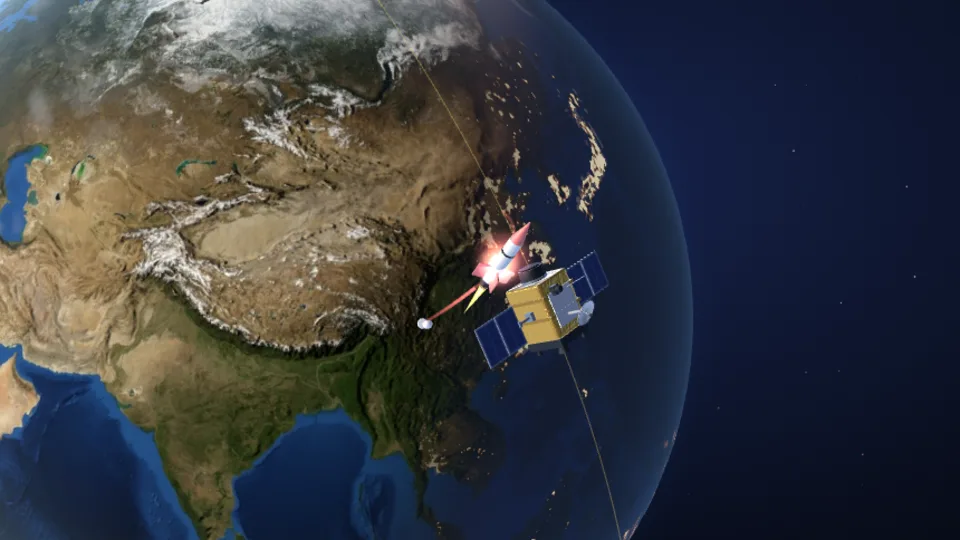
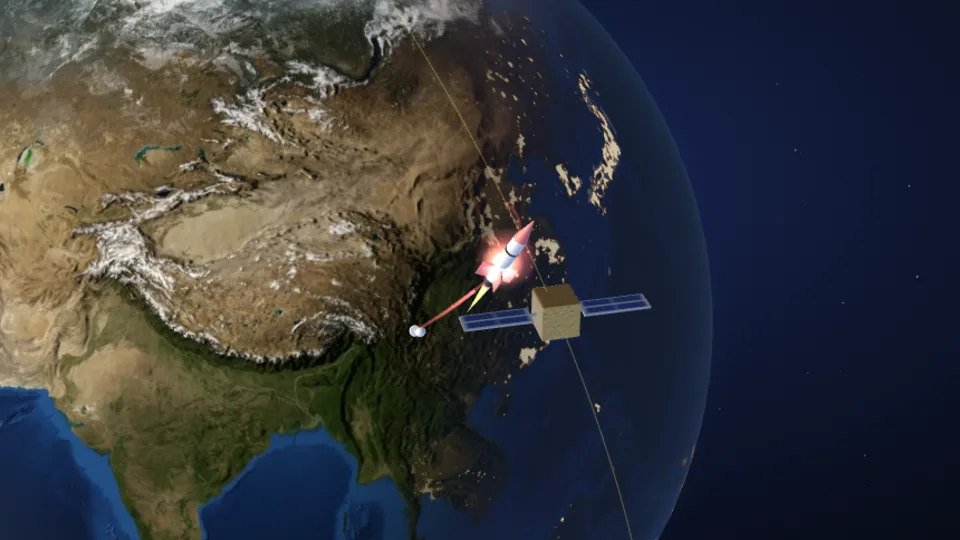
Polish scene framing and evidence labels; expand mobile and copy checks

diff --git a/counterspace/src/scenes/sim-space.js b/counterspace/src/scenes/sim-space.js
@@ -383,19 +383,14 @@ export function buildSpaceActor(a, { cfg, items, rnd, tgt, setFocus }) {
         return n;
       },
     });
-    // The count is stated against the nominal sample (a.count) at every width: a phone draws fewer dots, but the share offline is the same number.
-    const dark = (t) => {
-      let d = 0;
-      for (const o of canon) if (t > o) d++;
-      return Math.round((d / canon.length) * a.count);
-    };
+    // Dots explain the spread of the outage; their drawn number is not an observed count.
     items.push({
       kind: 'status',
       text: (t, still, phone) => {
         if (phone) {
           if (t < a.pulse0) return 'Before the attack: modems online';
           if (t < a.t0) return 'Attackers reach the ground network';
-          return t < a.t1 ? `Malware wipes modems · ${dark(t)}/${a.count} offline` : 'Modems offline · satellite kept working';
+          return t < a.t1 ? 'Malware wipes modems; they go offline' : 'Modems offline · satellite kept working';
         }
         if (a.compactStatus) {
           // opt-in: shorter desktop status lines
@@ -407,7 +402,7 @@ export function buildSpaceActor(a, { cfg, items, rnd, tgt, setFocus }) {
                 : t < a.t1
                   ? 'Modems wiped (SWF: ~45 min): red = offline'
                   : 'Modems offline (red) · satellite kept working';
-          return t >= a.t0 ? `${c} · ${dark(t)} of ${a.count} simulated` : c;
+          return c;
         }
         const tx =
           t < a.pulse0
@@ -417,7 +412,7 @@ export function buildSpaceActor(a, { cfg, items, rnd, tgt, setFocus }) {
               : t < a.t1
                 ? 'Malware overwrites modems (SWF: ~45 min): red = offline'
                 : 'Modems offline (red) · the satellite kept working';
-        return t >= a.t0 ? `${tx} · ${dark(t)} of ${a.count} simulated terminals offline` : tx;
+        return tx;
       },
     });
   }

diff --git a/counterspace/src/scenes/configs/spaceplanes.js b/counterspace/src/scenes/configs/spaceplanes.js
@@ -272,7 +272,7 @@ export const SPACEPLANES = {
     [0.3, 'OTV-7 (launched 28 Dec. 2023): an elongated orbit, 323 to 38,838 km up, tilt 59.1° (Feb. 2024)', 'OTV-7: 323 to 38,838 km up, tilt 59.1°'],
     [0.38, 'SWF: may have tested a new sensor or payload; what and why are unclear', 'SWF: purpose and payload unclear'],
     [0.46, 'Oct. 2024: uses air drag to lower its orbit; landed at Vandenberg 7 Mar. 2025 (434 days)', 'Landed 7 Mar. 2025 after 434 days'],
-    [0.51, 'OTV-8 launched 21 Aug. 2025; SWF says it was still in orbit in Feb. 2026', 'OTV-8 launched 21 Aug. 2025'],
+    [0.51, 'Next flight: OTV-8 launched 21 Aug. 2025; SWF says it was still in orbit in Feb. 2026', 'Next: OTV-8 launched 21 Aug. 2025'],
     [0.54, 'China’s CSSHQ: flights of 2, 276 and 268 days; a fourth launched 6 Feb. 2026 (SWF)', 'CSSHQ: flights of 2, 276, 268 days'],
     [0.56, 'Flight 1 (launched 4 Sept. 2020) spent 2 days in orbit', 'CSSHQ flight 1: 2 days in orbit'],
     [0.575, 'Flight 2 (2022–23): orbit raised to about 597–607 km; Object J cataloged, apparently released', 'Flight 2: Object J apparently released'],

diff --git a/counterspace/src/scenes/gl-models.js b/counterspace/src/scenes/gl-models.js
@@ -203,7 +203,11 @@ export const modelMethods = {
     };
     if (variant === 'solwind') {
       // The wheel beneath a single upright sail is the defining outline in the photograph.
-      K.cyl(metal, 0.017, 0.017, 0.008, 0, -0.014, 0, 0, 0, 0, 32);
+      K.cyl(this._foil(0x9faabd), 0.017, 0.017, 0.008, 0, -0.014, 0, 0, 0, 0, 32);
+      for (let k = 0; k < 12; k++) {
+        const angle = (k * PI) / 6;
+        K.box(metal, 0.0004, 0.0075, 0.0004, Math.sin(angle) * 0.017, -0.014, Math.cos(angle) * 0.017, 0, angle, 0);
+      }
       K.cyl(foil, 0.016, 0.016, 0.0014, 0, -0.0185, 0, 0, 0, 0, 32);
       K.ring(metal, 0.017, 0.0005, 0, -0.0097, 0, PI / 2);
       K.box(foil, 0.008, 0.008, 0.007, 0, -0.006, 0.004);
@@ -217,6 +221,7 @@ export const modelMethods = {
       array(0.016, 0.006, 0.014, 0, 0, -PI / 2);
     }
     const g = K.build();
+    if (variant === 'solwind') g.rotation.y = -Math.PI * 0.45; // an illustrative three-quarter attitude keeps the sail visible
     Object.assign(g.userData, { span: variant === 'solwind' ? 0.044 : 0.046, minPx: 15, maxPx: 50 });
     return g;
   },

diff --git a/counterspace/src/scenes/configs/shakti.js b/counterspace/src/scenes/configs/shakti.js
@@ -4,6 +4,7 @@ import { IS_PHONE } from '../core.js';
 
 export const SHAKTI = {
   id: 'shakti',
+  noSimCount: true, // Only sourced counts belong in captions; particle decay is illustrative.
   date: '2019-03-27',
   title: 'Mission Shakti: India destroys a satellite (2019)',
   shells: ['LEO'],
@@ -79,12 +80,12 @@ export const SHAKTI = {
       palette: { hot: [1, 0.98, 0.82], mid: [1, 0.88, 0.5], cool: [1, 0.8, 0.42] }, // warm fragments with short trails; the dark halo separates them from the amber city lights
       darkHalo: 0.92, // a dark disc behind every fragment lifts it off the lit land
       hard: true, // crisp gold-white fragments with a bright centre: not another soft amber town light
-      size: 0.1,
-      minPx: 4,
-      maxPx: 11,
-      additive: true,
+      size: 0.065,
+      minPx: 2.5,
+      maxPx: 6,
+      additive: false,
       trail: { n: 5, dt: 0.012, k: 0.6 },
-      lateGlow: true,
+      lateGlow: false,
     },
   ],
   still: 0.43,

diff --git a/counterspace/src/styles/page.css b/counterspace/src/styles/page.css
@@ -294,6 +294,7 @@ header.top::before{content:"";position:absolute;inset:0 0 auto 0;height:min(100%
 .first-look-dates time { display: block; color: var(--muted); font-size: 14px; }
 .first-look-dates strong { display: block; margin-top: 6px; font-weight: 500; }
 .first-look-copy { max-width: 65ch; min-height: 210px; }
+.first-look-copy p { font-family: var(--serif); font-size: 19px; line-height: 1.55; }
 .first-look-copy h3 { margin: 22px 0 12px; }
 .first-look-actions { display: flex; flex-wrap: wrap; gap: 10px; }
 .cap-phone { display: none; }
@@ -316,3 +317,4 @@ header.top::before{content:"";position:absolute;inset:0 0 auto 0;height:min(100%
   #chartB:not(.show-cap-history) #svgB, #chartB:not(.show-cap-history) .cap-history-hint { display: none; }
   #chartB #tkB, #chartB #noteB { display: none; }
 }
+.first-look-actions .btn { white-space: normal; max-width: 100%; min-width: 0; text-align: center; }

diff --git a/counterspace/src/scenes/configs/solwind.js b/counterspace/src/scenes/configs/solwind.js
@@ -4,6 +4,7 @@ import { IS_PHONE } from '../core.js';
 
 export const SOLWIND = {
   id: 'solwind',
+  noSimCount: true, // Only sourced counts belong in captions; particle decay is illustrative.
   fitPct: 0.99,
   date: '1985-09-13',
   title: 'Solwind: a US missile destroys a satellite (1985)',
@@ -34,6 +35,7 @@ export const SOLWIND = {
   latePct: 0.85,
   camGlide: true,
   burstPadFrom: 0.4,
+  fitFillKeys: IS_PHONE ? [0.68, 0.7, 0.85, 0.9, 0.9, 0.9] : undefined, // room for the wheel and sail above the caption during the climb
   earlyKey: true, // the camera is already tight on the F-15 and the satellite during the climb and the release
   fitTilt: 40, // the view is turned toward the side, so the debris cloud shows against space, not half hidden behind the limb
   lookK: IS_PHONE ? 0.97 : 0.84, // desktop: the Earth sits nearer the middle of the frame, not against its left edge

diff --git a/counterspace/src/scenes/configs/gnss.js b/counterspace/src/scenes/configs/gnss.js
@@ -133,7 +133,7 @@ export const GNSS = {
     { name: 'Europe and GPS orbits', short: 'Europe and GPS', at: [42, -8, 5.0], look: [40, 10, 0.5], phone: { at: [42, -8, 5.6] }, ref: false, hide: IS_PHONE ? ['Ground jammer', 'Jammer effect', 'Airliner 1'] : ['Ground jammer', 'Jammer effect', 'GPS signal'] },
   ],
   status: [
-    [0, 'Both airliners have GNSS (green); the jammer zone is red', 'Airliners have GNSS (green); zone is red', 'Both airliners have GNSS (green); zone is red'],
+    [0, 'Outside the red jammer zone, aircraft receive GPS signals (green)', 'Green: GPS received; red: signal lost', 'Green: GPS received; red: signal lost'],
     [0.3, 'Inside the zone GNSS is lost (red); outside it, OK (green). Satellites unaffected', 'Inside the zone GNSS is lost (red)', 'Zone: GNSS lost (red). Outside: fine. Satellites unaffected'],
   ],
 };

diff --git a/counterspace/src/scenes/configs/burnt-frost.js b/counterspace/src/scenes/configs/burnt-frost.js
@@ -4,6 +4,7 @@ import { IS_PHONE } from '../core.js';
 
 export const BURNT_FROST = {
   id: 'burnt-frost',
+  noSimCount: true, // Only sourced counts belong in captions; particle decay is illustrative.
   date: '2008-02-20',
   title: 'Burnt Frost: the US destroys a failing satellite (2008)',
   shells: ['LEO'],
@@ -100,9 +101,9 @@ export const BURNT_FROST = {
       color: '#ffb066',
       palette: { hot: [1, 0.86, 0.55], mid: [1, 0.6, 0.25], cool: [1, 0.5, 0.22] },
       hard: true,
-      size: 0.085,
+      size: 0.06,
       minPx: 2.5,
-      maxPx: 9,
+      maxPx: 6,
       additive: false,
       lateGlow: true,
     }, // warm orange fragments, uneven in size and spread: no lattice, separate from the blue ocean

diff --git a/counterspace/src/scenes/configs/viasat.js b/counterspace/src/scenes/configs/viasat.js
@@ -100,7 +100,7 @@ export const VIASAT = {
   focus: [33, 12],
   shellLabels: { GEO: null },
   offFrom: { 'Ground network': 0.32 }, // before this the placer's own slot above the hub is clear
-  liveOff: { 'Ground network': [40, 72] }, // desktop: the label sits in the Atlantic to the west, off the modem field
+  liveOff: { 'Ground network': [-170, -50] }, // desktop: the label sits in the Atlantic to the west, off the modem field
   liveShort: ['Ground terminals', 'Ground management'], // the full text puts a corner of the label on the Earth at 900 px on the wide camera
   staticZoom: 1.5,
   stillCam: { at: [10, 12, 3.9], look: [24, 13, 0.5], hideShell: true },

diff --git a/counterspace/src/scenes/configs/dn2.js b/counterspace/src/scenes/configs/dn2.js
@@ -72,7 +72,7 @@ export const DN2 = {
         { alt: GEO_ALT, label: 'GEO ring · 35,786 km', short: 'GEO', opt: true, color: C.geo, dx: 0, dy: 46, staticAt: [0.88, 0.58], staticPin: 'hard' },
       ],
     },
-    { type: 'ring', alt: GEO_ALT, inc: 0, raan: 0, color: C.geo, thick: 0.006, opacity: 0.9, sats: 6 },
+    { type: 'ring', alt: GEO_ALT, inc: 0, raan: 0, color: C.geo, thick: 0.006, opacity: 0.9 },
   ],
   still: 0.62,
   stillOff: { 'DN-2 path': [-106, -50] }, // the still: the path label sits above the globe, not on it

diff --git a/counterspace/src/styles/scenes.css b/counterspace/src/styles/scenes.css
@@ -2465,3 +2465,5 @@
   #sceneSrcLine > #sceneMore[hidden] { display: none; }
   #slPop .sl-links { display: flex; flex-wrap: wrap; gap: 8px; margin-top: 12px; }
 }
+
+@media(max-width:760px) { #sceneSrcLine > #sceneMore .ico { display: none; } }
